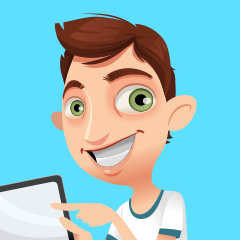
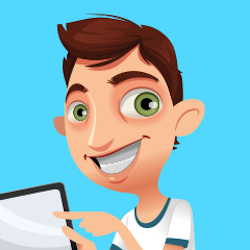
social update
- added support for author's to share google+ profile
- google+ links for getting your avatar in search results
- new image for stackgeek g+ account
- style fix for .rst update

diff --git a/templates/blog/blog_user.html b/templates/blog/blog_user.html
@@ -16,7 +16,13 @@
 {% block header_title_lead %}
   <div class="row">
   	<div class="span12">
-      <h1 class="author">{{name}}</h1>
+      <h1 class="author">
+        {{name}}
+        {% if google_plus_profile %}
+        <a href="{{ google_plus_profile }}" rel="me" style="text-decoration:none;">
+        <img src="//ssl.gstatic.com/images/icons/gplus-16.png" alt="Google+" style="border:0;width:16px;height:16px;"/></a>
+        {% endif %}
+      </h1>
       <img class="avatar" class="img-polaroid" src="{{gravatar_url}}"/>
       <p class="author-lead">{{ bio }}</p>
       {% if owner_github_username %}
@@ -43,12 +49,13 @@
         <div class="tab-pane active" id="posts">
         {% for item in blogposts %}
           <div class="apost">
-    	      <h2 class="post"><a href="/blog/{{ item.article_owner }}/{{ item.article_type }}/{{ item.article_slug }}">{{ item.article_title }}</a></h2>
-    	      <div class="date_social">
-              <span class="date label label-important">{{ item.created }}</span>
+    	      <h1 class="post"><a href="/blog/{{ item.article_owner }}/{{ item.article_type }}/{{ item.article_slug }}">{{ item.article_title }}</a></h1>
+            <div class="date_social">
+                <div class="date"><span class="label label-important">{{ item.created }}</span></div>
               {% if user_id %}
                 {{ macros.fork_gist_widget(item.article_owner, item.article_id) }}
               {% endif %}
+              {{ macros.hn_widget("http://%s/blog/%s/%s/%s"%(item.article_host, item.article_owner, item.article_type, item.article_slug), item.article_title) }}
               {{ macros.g_plus_widget("http://%s/blog/%s/%s/%s"%(item.article_host, item.article_owner, item.article_type, item.article_slug)) }}
               {{ macros.tweet_widget("http://%s/blog/%s/%s/%s"%(item.article_host, item.article_owner, item.article_type, item.article_slug), item.article_summary) }}
             </div>
@@ -60,7 +67,7 @@
         <div class="tab-pane" id="guides">
         {% for item in guides %}
           <div class="apost">
-            <h2 class="post"><a href="/blog/{{ item.article_owner }}/{{ item.article_type }}/{{ item.article_slug }}">{{ item.article_title }}</a></h2>
+            <h1 class="post"><a href="/blog/{{ item.article_owner }}/{{ item.article_type }}/{{ item.article_slug }}">{{ item.article_title }}</a></h1>
             <div class="date_social">
               <span class="date label label-important">{{ item.created }}</span>
               {% if user_id %}

diff --git a/templates/user/edit_profile.html b/templates/user/edit_profile.html
@@ -27,6 +27,7 @@
             {{ macros.input(form, "bio", _("Bio"), placeholder=_("Enter a short bio."), class="input-xlarge") }}
             {{ macros.input(form, "company", _("Company"), placeholder=_("Where you work?"), class="input-xlarge") }}
             {{ macros.input(form, "gravatar_url", _("Gravatar <a target='blank' href='http://gravatar.com/'>Huh?</a>"), placeholder=_("http://1.gravatar.com/avatar/fbe1c266126bf48fd4c9616566d6c198"), class="input-xlarge") }}
+            {{ macros.input(form, "google_plus_profile", _("Google Plus Profile"), placeholder=_("https://plus.google.com/u/1/100735767683148801066"), class="input-xlarge") }}
             {{ macros.input(form, "twitter_widget_id", _("Twitter Widget ID <a target='blank' href='https://twitter.com/settings/widgets/new'>Huh?</a>"), placeholder=_("264217253359259648"), class="input-xlarge") }}
             {{ macros.input(form, "country", _("Country")) }}
 

diff --git a/templates/site/home.html b/templates/site/home.html
@@ -59,7 +59,7 @@
                     {{ macros.g_plus_widget("http://%s/blog/%s/%s/%s"%(blogpost.article_host, blogpost.article_owner, blogpost.article_type, blogpost.article_slug)) }}
                     {{ macros.tweet_widget("http://%s/blog/%s/%s/%s"%(blogpost.article_host, blogpost.article_owner, blogpost.article_type, blogpost.article_slug), blogpost.article_summary) }}
                   </div>
-                  <p>by <a href="/blog/{{ blogpost.article_owner }}">{{ blogpost.article_owner }}</a>
+                  <p>by <a href="/blog/{{ blogpost.article_owner }}" rel="author">{{ blogpost.article_owner }}</a>
                   {{blogpost.article_html}}
                   <a class="btn" href="/blog/{{ blogpost.article_owner }}/post/{{ blogpost.article_slug }}#disqus_thread">0 Comments</a>
                   <a class="btn" href="/blog/">View More Posts</a>

diff --git a/templates/blog/guide.html b/templates/blog/guide.html
@@ -30,7 +30,7 @@
 				{{ macros.g_plus_widget("http://%s/blog/%s/%s/%s"%(item.article_host, item.article_owner, item.article_type, item.article_slug)) }}
 				{{ macros.tweet_widget("http://%s/blog/%s/%s/%s"%(item.article_host, item.article_owner, item.article_type, item.article_slug), item.article_summary) }}
 			</div>
-			<p>by <a href="/blog/{{ item.article_owner }}">{{ item.article_owner }}</a>
+			<p>by <a href="/blog/{{ item.article_owner }}" rel="author">{{ item.article_owner }}</a>
 			<p>{{item.article_summary|escape }}</p>
 			<a class="btn" href="/blog/{{ item.article_owner }}/{{ item.article_type }}/{{ item.article_slug }}#comments">Guide Comments</a>
 			<a class="btn" target="_blank" href="/forums">Forum Discussion</a>

diff --git a/templates/blog/blog.html b/templates/blog/blog.html
@@ -37,7 +37,7 @@
 				{{ macros.g_plus_widget("http://%s/blog/%s/%s/%s"%(item.article_host, item.article_owner, item.article_type, item.article_slug)) }}
 				{{ macros.tweet_widget("http://%s/blog/%s/%s/%s"%(item.article_host, item.article_owner, item.article_type, item.article_slug), item.article_summary) }}
 			</div>
-			<p>by <a href="/blog/{{ item.article_owner }}">{{ item.article_owner }}</a>
+			<p>by <a href="/blog/{{ item.article_owner }}" rel="author">{{ item.article_owner }}</a></p>
 			{{ item.article_html }}
 			<a class="btn" href="/blog/{{ item.article_owner }}/{{ item.article_type }}/{{ item.article_slug }}#disqus_thread">0 Comments</a>
 		</div>

diff --git a/templates/blog/blog_article_detail.html b/templates/blog/blog_article_detail.html
@@ -32,7 +32,7 @@
           {{ macros.g_plus_widget("http://%s/blog/%s/%s/%s"%(entry.article_host, entry.article_owner, entry.article_type, entry.article_slug)) }}
           {{ macros.tweet_widget("http://%s/blog/%s/%s/%s"%(entry.article_host, entry.article_owner, entry.article_type, entry.article_slug), entry.article_summary) }}
         </div>
-        <p>by <a href="/blog/{{ entry.article_owner }}">{{ entry.article_owner }}</a>
+        <p>by <a href="/blog/{{ entry.article_owner }}" rel="author">{{ entry.article_owner }}</a>
         {{entry.article_html}}
         <a name="comments"></a>
         <div id="disqus_thread"></div>

diff --git a/web/users/userhandlers.py b/web/users/userhandlers.py
@@ -556,6 +556,7 @@ class EditProfileHandler(BaseHandler):
             self.form.country.data = user_info.country
             self.form.bio.data = user_info.bio
             self.form.gravatar_url.data = user_info.gravatar_url
+            self.form.google_plus_profile.data = user_info.google_plus_profile
             self.form.twitter_widget_id.data = user_info.twitter_widget_id
             providers_info = user_info.get_social_providers_info()
             params['used_providers'] = providers_info['used']
@@ -577,6 +578,7 @@ class EditProfileHandler(BaseHandler):
         bio = self.form.bio.data.strip()
         twitter_widget_id = self.form.twitter_widget_id.data.strip()
         gravatar_url = self.form.gravatar_url.data.strip()
+        google_plus_profile = self.form.google_plus_profile.data.strip()
         
         try:
             user_info = models.User.get_by_id(long(self.user_id))
@@ -612,6 +614,7 @@ class EditProfileHandler(BaseHandler):
                 user_info.bio=bio
                 user_info.twitter_widget_id=twitter_widget_id
                 user_info.gravatar_url=gravatar_url
+                user_info.google_plus_profile=google_plus_profile
                 user_info.put()
                 message+= " " + _('Thanks, your settings have been saved.  You may now dance.')
                 self.add_message(message, 'success')

diff --git a/web/forms.py b/web/forms.py
@@ -87,6 +87,7 @@ class EditProfileForm(UserMixin):
     last_name = fields.TextField(_('Last_Name'), [validators.Length(max=FIELD_MAXLENGTH)])
     company = fields.TextField(_('Company'))
     bio = fields.TextAreaField(_('Bio'))
+    google_plus_profile = fields.TextField(_('Google+ Profile URL'))
     gravatar_url = fields.TextField(_('Gravatar URL'))
     twitter_widget_id = fields.TextField(_('Twitter Widget ID'))
     country = fields.SelectField(_('Country'), choices=utils.COUNTRIES)   

diff --git a/web/blog/bloghandlers.py b/web/blog/bloghandlers.py
@@ -345,6 +345,7 @@ class BlogUserHandler(BaseHandler):
             'name': name,
             'blog_username': username,
             'owner_github_username': owner_github_username,
+            'google_plus_profile': owner_info.google_plus_profile,
             'gravatar_url': gravatar_url, 
             'twitter_widget_id': owner_info.twitter_widget_id, 
             'blogposts': blogposts, 

diff --git a/web/models/models.py b/web/models/models.py
@@ -22,6 +22,7 @@ class User(User):
     bio = ndb.StringProperty()
     password = ndb.StringProperty()
     country = ndb.StringProperty()
+    google_plus_profile = ndb.StringProperty()
     gravatar_url = ndb.StringProperty()
     twitter_widget_id = ndb.StringProperty()
     activated = ndb.BooleanProperty(default=False)
